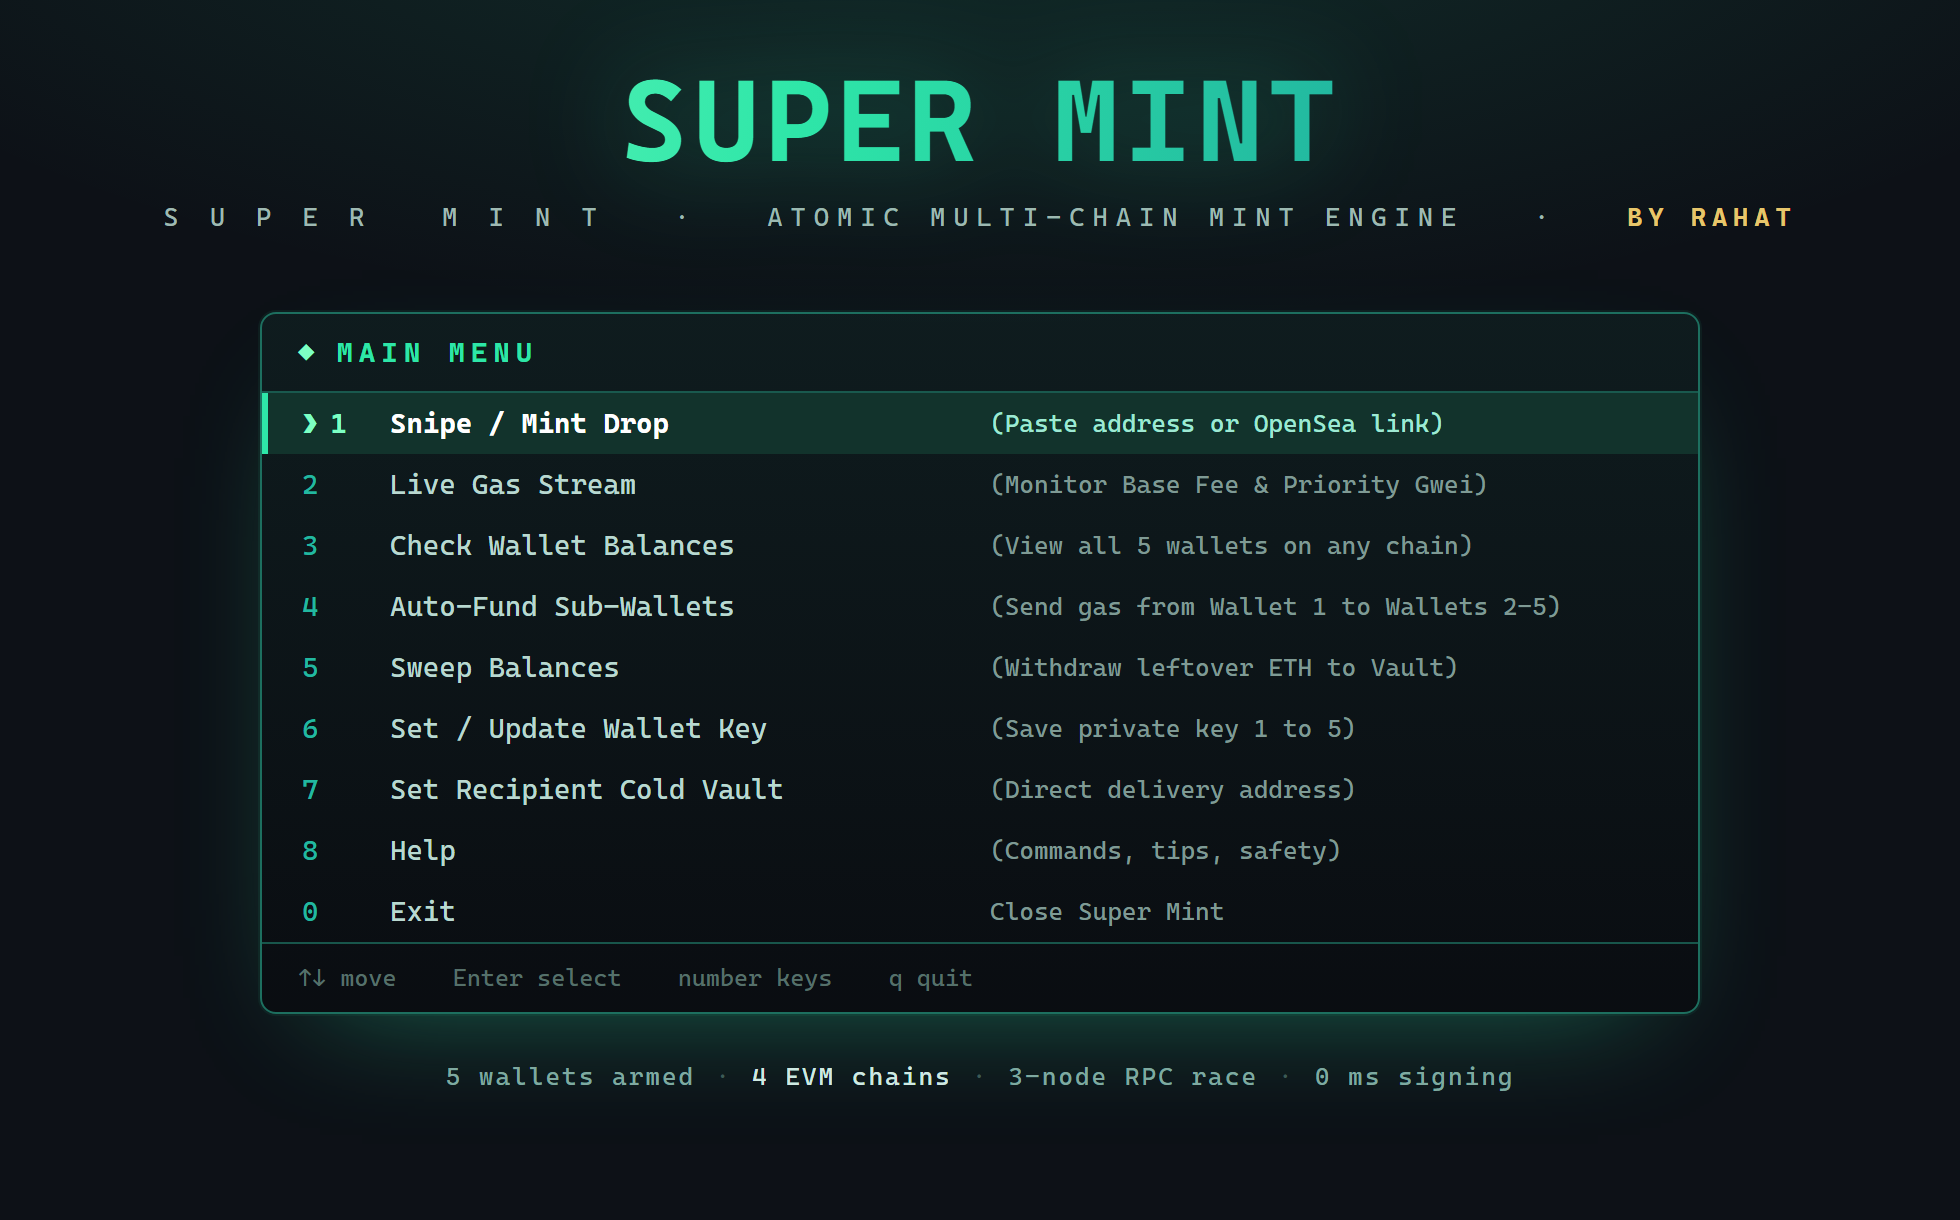
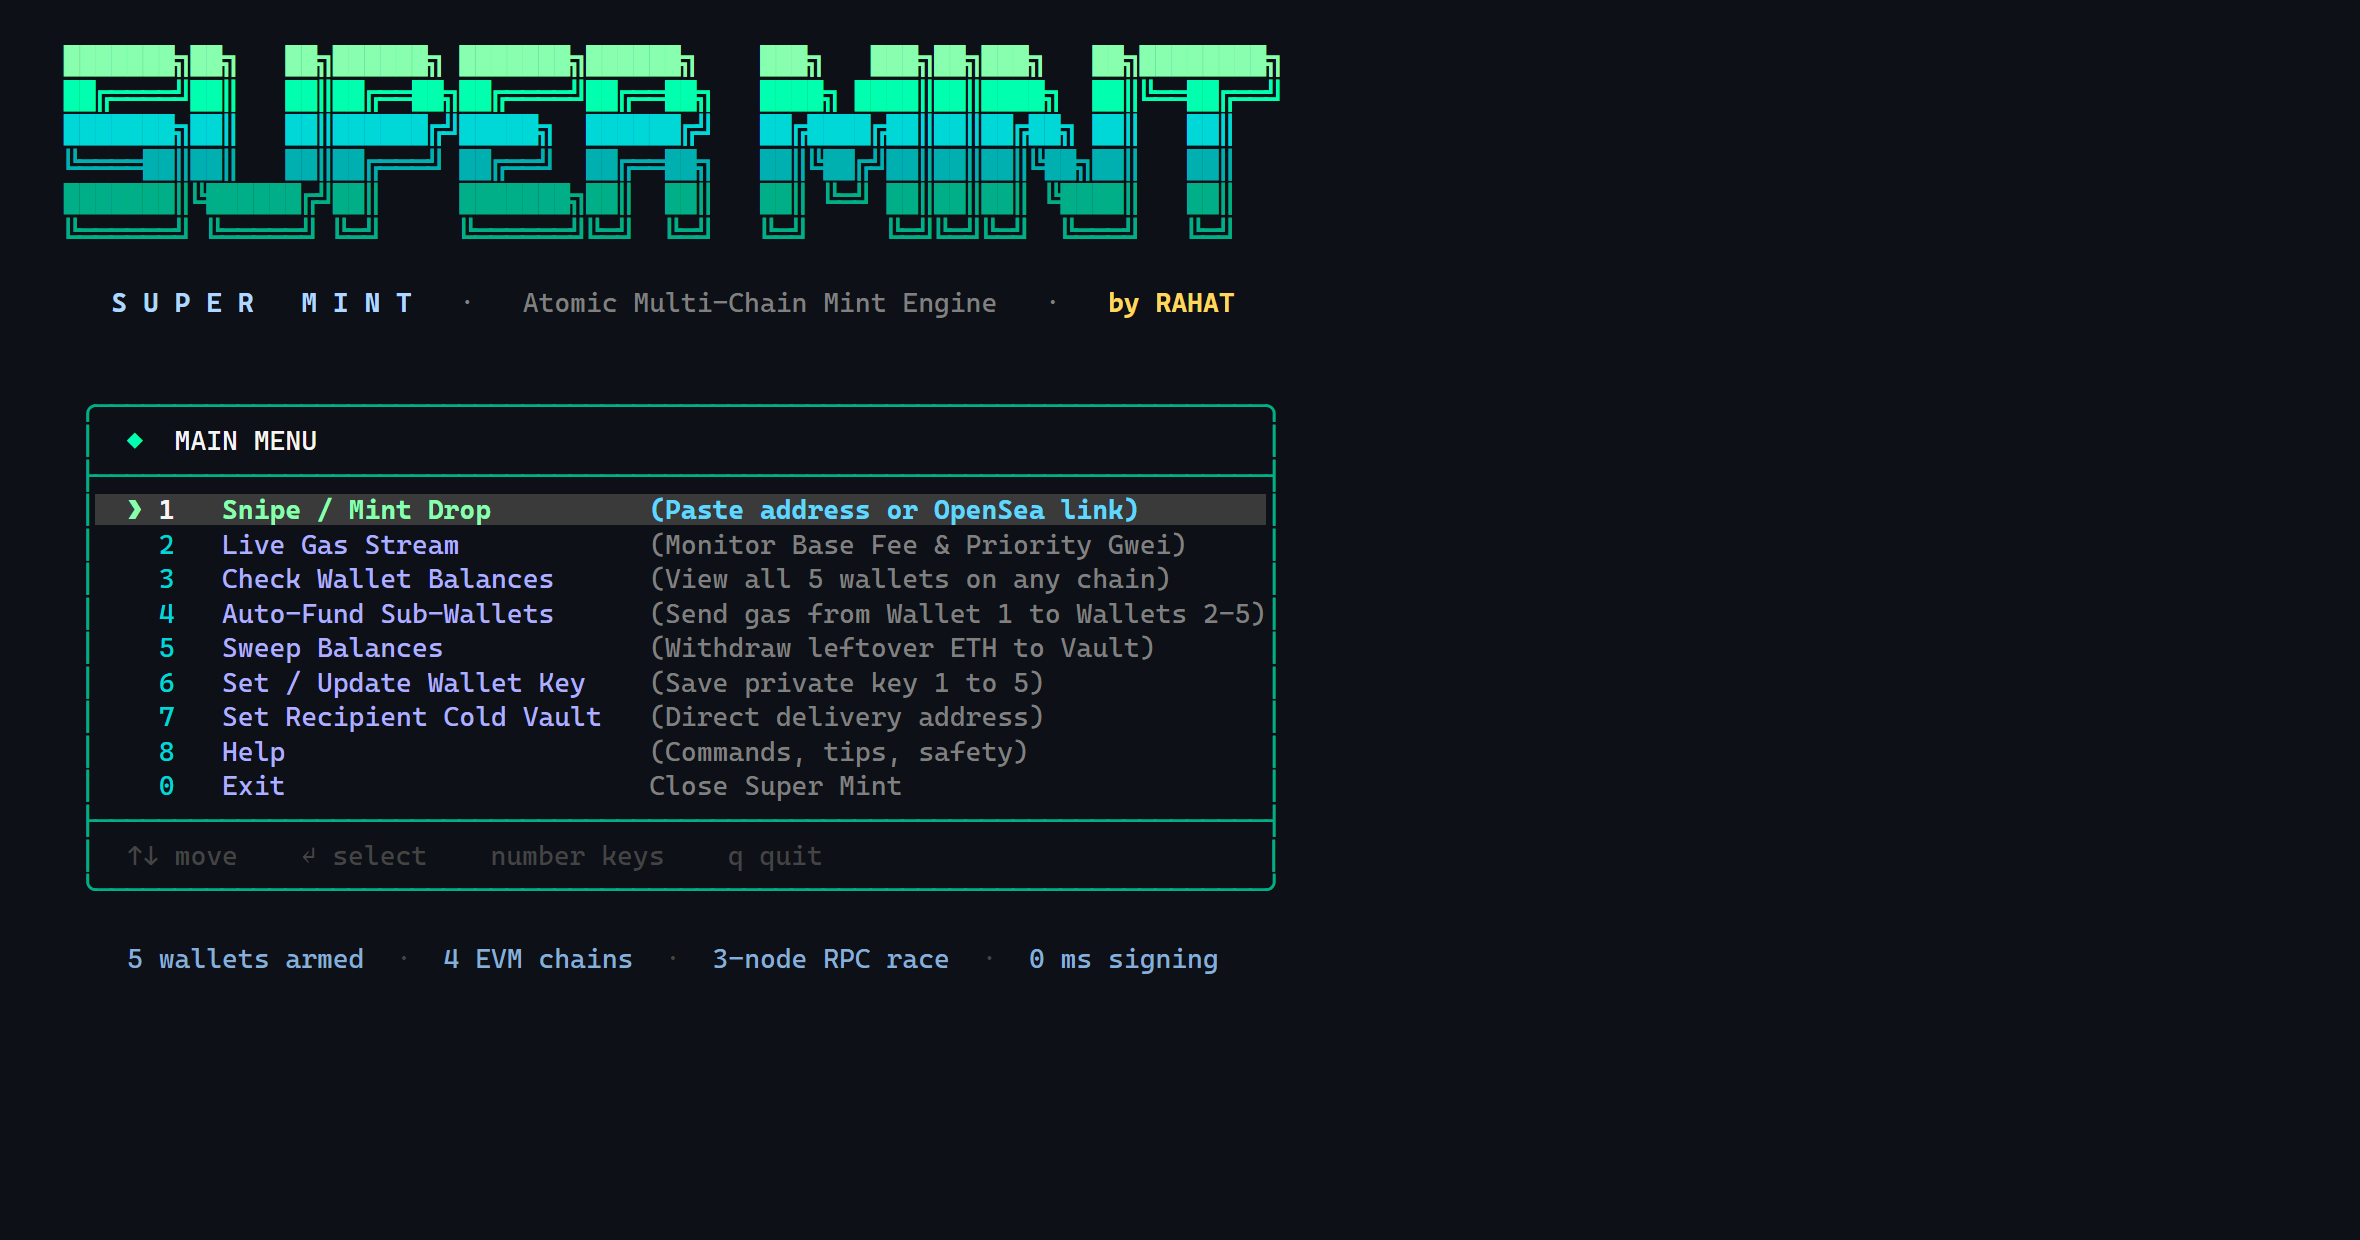
Docs: use a capture of the real terminal output instead of the mocked preview

diff --git a/README.md b/README.md
@@ -1,14 +1,10 @@
 <p align="center">
-  <img src="banner.svg" alt="Super Mint — Atomic Multi-Chain Mint Engine by RAHAT" width="100%">
+  <img src="preview.png" alt="Super Mint terminal — main menu" width="980">
 </p>
 
 <p align="center">
   <b>High-frequency, multi-chain NFT mint sniper</b><br>
   <sub>5 wallets · 4 chains · pre-signed bursts · live drop countdown · wallet eligibility</sub>
-</p>
-
-<p align="center">
-  <img src="preview.png" alt="Super Mint terminal menu" width="860">
 </p>
 
 # SUPER MINT — Multi-Chain Ultra-Fast NFT Mint Sniper
